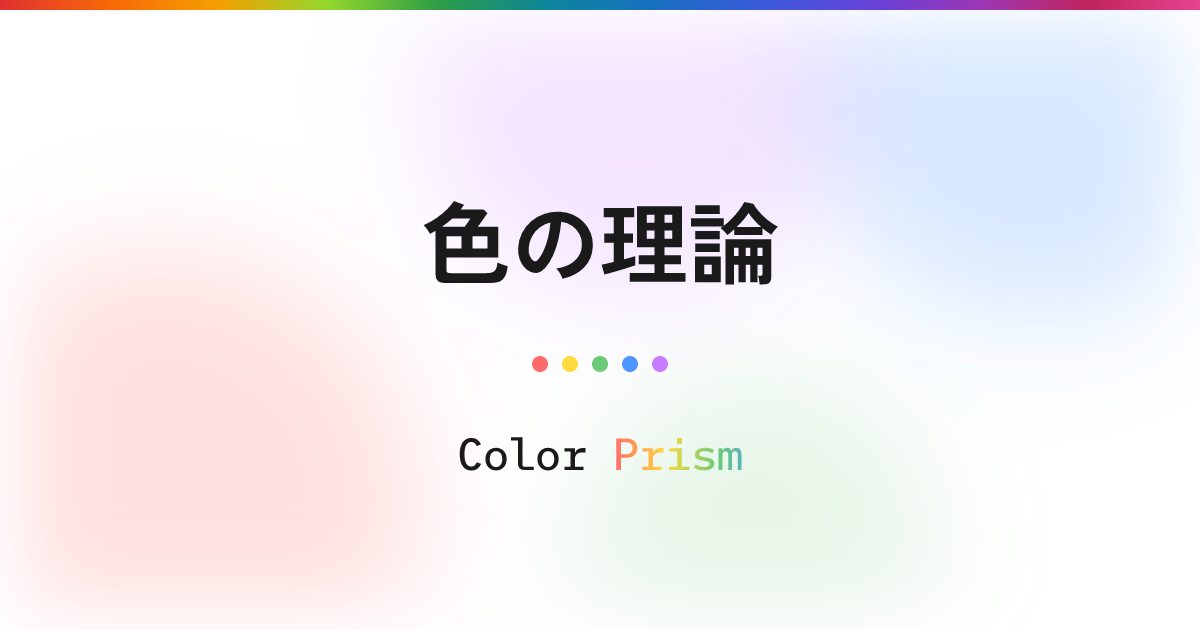
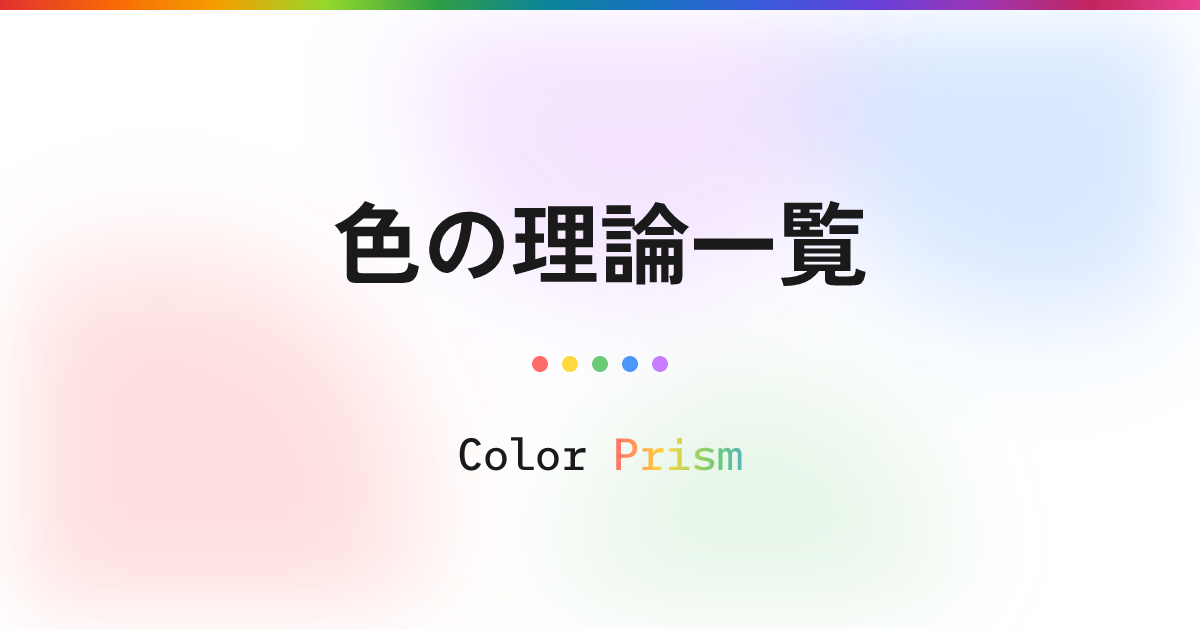
color-theory・jis-color-mapのOGPタイトル末尾に「一覧」を付ける
一覧ページの OGP タイトルに「一覧」を付けたい、という依頼を受けての変更。
「色の理論」「慣用色名マップ」だけだと個別の記事ページと見分けがつかず、
一覧ページであることがサムネイル・og:title から伝わらなかった。

- 色の理論 → 色の理論一覧
- 慣用色名マップ → 慣用色名マップ一覧

記録（ogimage/data/*.json）とマニフェスト（og-manifest.json）の両方が
更新されるので、画像だけでなく **この2ページの og:title も変わる**。
どちらも 90px のまま1行に収まる。

あわせて generate-ogp-image の解決リファレンス表を直した。従来は
「site-nav.ts の NAV ラベルをそのまま使う」としか書いておらず、次に誰かが
タイトルを解決し直したときに「一覧」が消えるため、この2ルートだけ行を分けて
「ラベルに『一覧』を付ける」と明記した。

/color-fields は依頼に無かったのでそのまま。揃えるかは別途判断する。

未 push コミットに app 配下の変更が含まれるため、規約に従い CI スキップ
指示は付けない。

Changed region(s): [[0.2775, 0.3016, 0.74, 0.4524]]

diff --git a/.claude/skills/generate-ogp-image/SKILL.md b/.claude/skills/generate-ogp-image/SKILL.md
@@ -267,7 +267,8 @@ render.mjs は nested-fig の図版を `ogimage/data/assets/<route>/figure.<ext>
 | --- | --- | --- | --- |
 | `/` | default | （不要。メイン=サイト名） | — |
 | `/concept` | title-only | 「このサイトの歩き方」（`app/src/lib/layouts/concept.svelte`） | —（`config.mjs` の `tagline: true` でタイトル下にタグラインが入る） |
-| `/color-theory`, `/color-fields`, `/jis-color-map`, `/cg` | title-only | `app/src/lib/meta/site-nav.ts` の該当 NAV アイテム label（色の理論 / 色の活用分野 / 慣用色名マップ / CGと画像処理） | — |
+| `/color-theory`, `/jis-color-map` | title-only | `app/src/lib/meta/site-nav.ts` の該当 NAV アイテム label に **「一覧」を付ける**（色の理論一覧 / 慣用色名マップ一覧） | — |
+| `/color-fields`, `/cg` | title-only | `app/src/lib/meta/site-nav.ts` の該当 NAV アイテム label（色の活用分野 / CGと画像処理） | — |
 | `/jis-color-map/all` | title-only | 「すべての慣用色名一覧」（`+page.svelte` の `<title>`） | — |
 | `/approximate`, `/analyze` | nested | 各 `+page.svelte` の `<title>` からサフィックス除去 | `["色分析ツール"]`（一覧ページを持たない単体ツールなので総称を充てる） |
 | `/patterns` | nested | 「配色シミュレータ」（`app/src/routes/patterns/+page.svelte` の `<title>`） | `["イメージ別の配色"]`（一覧ページだが、扱っている題材をパンくずに出す） |
